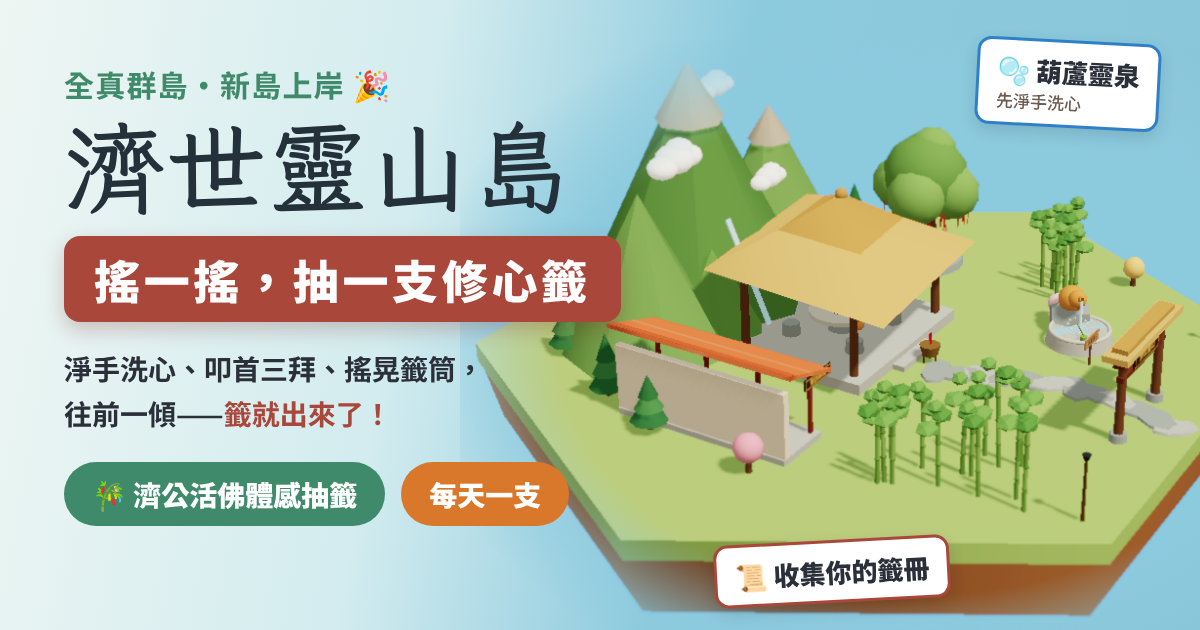
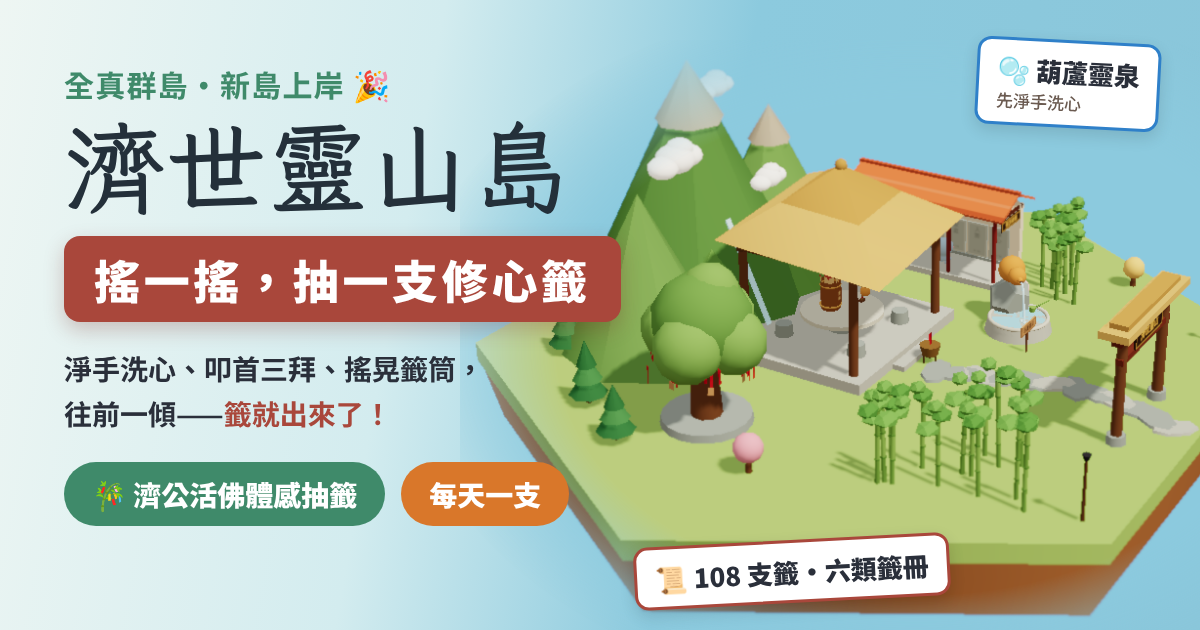
全真群島 v261110.02：濟世靈山島 LINE 預覽圖重拍（og-jishi.png?v=2）
Claude-Session: https://claude.ai/code/session_01CYjxt9yqomWk8WPPjDXmLW

Changed region(s): [[0.4625, 0.181, 1.0, 0.754], [0.5242, 0.8444, 0.8017, 0.9651]]

diff --git a/islands/jishi/index.html b/islands/jishi/index.html
@@ -11,8 +11,8 @@
 <meta property="og:title" content="搖一搖，抽一支修心籤｜全真群島・濟世靈山島">
 <meta property="og:description" content="淨手洗心、叩首三拜、搖晃籤筒、往前一傾，籤就出來了。用手機體感抽籤，每天一支，收集你的籤冊。">
 <meta property="og:url" content="https://steven4dev.github.io/yiguandao-2027-course/islands/jishi/">
-<meta property="og:image" content="https://steven4dev.github.io/yiguandao-2027-course/islands/jishi/og-jishi.png?v=1">
-<meta property="og:image:secure_url" content="https://steven4dev.github.io/yiguandao-2027-course/islands/jishi/og-jishi.png?v=1">
+<meta property="og:image" content="https://steven4dev.github.io/yiguandao-2027-course/islands/jishi/og-jishi.png?v=2">
+<meta property="og:image:secure_url" content="https://steven4dev.github.io/yiguandao-2027-course/islands/jishi/og-jishi.png?v=2">
 <meta property="og:image:type" content="image/png">
 <meta property="og:image:width" content="1200">
 <meta property="og:image:height" content="630">

diff --git a/islands/index.html b/islands/index.html
@@ -644,7 +644,7 @@
   <p class="count hits-count" id="hitsLine">👣 已經有 <img id="hitsImg" alt="累計造訪人次" height="18" src="https://hits.sh/steven4dev.github.io/yiguandao-2027-course/islands.svg?style=flat-square&amp;label=%E4%BA%BA%E6%AC%A1&amp;color=d9a43a&amp;labelColor=3a3f5a" onerror="this.parentNode.hidden = true"> 來逛過群島</p>
   <div class="boards"><a class="board" href="https://forms.gle/PG7yAsyz1r4unXXZ8" target="_blank" rel="noopener">🛶 我要登島</a><button class="board board-visit" id="visitBtn" type="button">👀 我要觀摩</button></div>
   <span class="status" id="status" data-state="backup" role="button" tabindex="0" title="點一下重新讀取"><i></i><span id="statusText">讀取資料中…</span></span>
-  <span class="ver">v261110.01</span>
+  <span class="ver">v261110.02</span>
   </div></div>
 </div>
 

diff --git a/islands/CHANGELOG.md b/islands/CHANGELOG.md
@@ -3,6 +3,9 @@
 網頁左上角品牌卡最下面的淡色小字就是版本編號，格式跟褪下仙衣一樣是 `v年月日.當天第幾版`，例如 `v261025.01` 代表 2026/10/25 的第 1 版。
 打開網頁看到的編號和這裡最上面的一筆相同，就代表已經更新成功；如果還是舊編號，等幾分鐘再重新整理。
 
+## v261110.02
+- 濟世靈山島的 LINE 預覽圖重拍：換成現在島上的樣子（靈泉在草堂前、加高的牌樓與草堂、右邊人字形屋頂的碑廊），右下小卡改成「108 支籤・六類籤冊」；分享頁的預覽圖網址改成 `og-jishi.png?v=2`。LINE 會快取預覽圖，分享時用 `islands/jishi/?v=2` 才會抓到新圖。
+
 ## v261110.01
 - 濟世靈山島正式開放：拆掉施工圍籬，島名標籤、資訊卡、導覽目錄、搜尋都恢復成「濟世靈山島・抽籤」，大家都能抽籤；抽籤相關的 8 個徽章在徽章牆上露出名字和圖示。
 - 恢復每天一支：同一支手機當天再來，直接看到今天抽到的那支籤，明天再抽新的。

diff --git a/islands/promo/README.md b/islands/promo/README.md
@@ -53,3 +53,4 @@
 | 2026-10 | 講師／助理專屬邀請函（十位） | `islands/t/<拼音>/og.png`，連結 `islands/t/<拼音>/`，點進去直接飛到該講師小人偶並打開人物卡 |
 | 2026-10 | 全真青年凝聚晚會 11/28（夜晚版） | `2026-10-凝聚晚會.png`，宣傳連結 `islands/party/`，點進去直接飛到中一島（涼亭就是報名處） |
 | 2026-10 | 登島懶人包（怎麼玩？） | `2026-10-登島懶人包.png`，宣傳連結 `islands/guide/`，點進去會跳出操作說明 |
+| 2026-11 | 濟世靈山島（新島上岸，11/10 正式開放） | `islands/jishi/og-jishi.png`，宣傳連結 `islands/jishi/?v=2`，點進去直接飛到濟世靈山島 |
